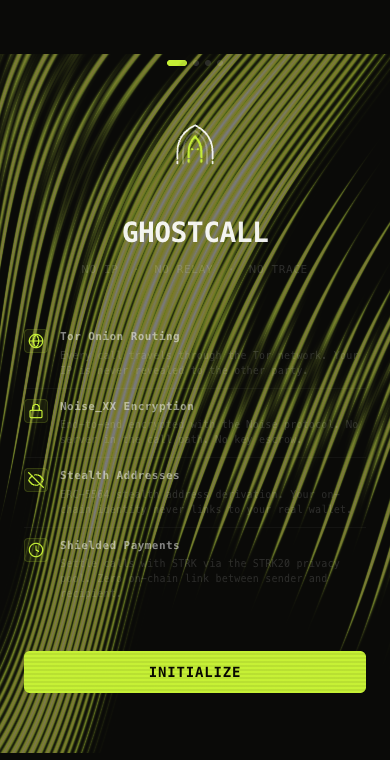
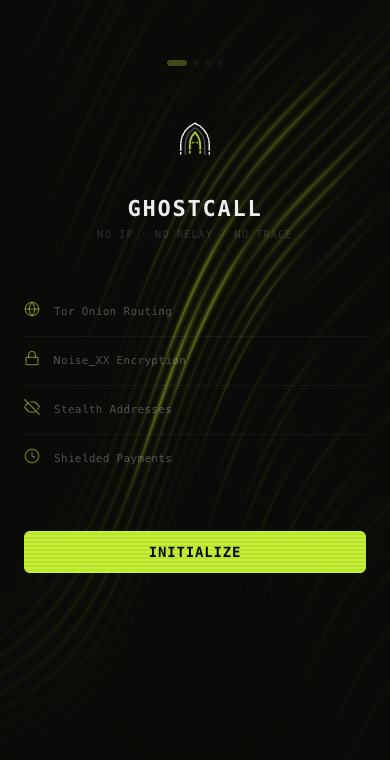
fix: subtle onboarding welcome — dim waves + dark scrim, clean content hierarchy

diff --git a/renderer/app/onboarding/page.tsx b/renderer/app/onboarding/page.tsx
@@ -145,82 +145,73 @@ const FEATURE_ITEMS = [
 // ── Welcome ────────────────────────────────────────────────────────────────
 function WelcomeStep({ onNext }: { onNext: () => void }) {
   return (
-    <div style={{ display: 'flex', flexDirection: 'column', alignItems: 'center', gap: 40, width: '100%', maxWidth: 360, position: 'relative' }}>
-      {/* Iridescence background */}
+    <div style={{ display: 'flex', flexDirection: 'column', alignItems: 'center', width: '100%', maxWidth: 360, position: 'relative' }}>
+      {/* Subtle line waves — full viewport bleed, very low opacity */}
       <div style={{
-        position: 'absolute', inset: '-60px -80px', zIndex: 0,
-        pointerEvents: 'none', opacity: 0.45,
+        position: 'fixed', inset: 0, zIndex: 0,
+        pointerEvents: 'none',
       }}>
         <LineWaves
           color1="#C6F135"
-          color2="#a8d420"
-          color3="#e8ff60"
-          speed={0.3}
-          brightness={0.35}
-          warpIntensity={1.0}
-          innerLineCount={30}
-          outerLineCount={34}
-          rotation={-40}
-          colorCycleSpeed={0.5}
+          color2="#8aaa10"
+          color3="#C6F135"
+          speed={0.2}
+          brightness={0.07}
+          warpIntensity={0.5}
+          innerLineCount={20}
+          outerLineCount={24}
+          rotation={-30}
+          colorCycleSpeed={0.25}
           enableMouseInteraction={false}
         />
       </div>
 
-      <div style={{ position: 'relative', zIndex: 1 }}>
-        <Logo size={64} glowColor="rgba(198,241,53,0.9)" />
+      {/* Dark scrim so content reads cleanly over the waves */}
+      <div style={{
+        position: 'fixed', inset: 0, zIndex: 0, pointerEvents: 'none',
+        background: 'radial-gradient(ellipse at center, rgba(10,10,8,0.55) 0%, rgba(10,10,8,0.82) 100%)',
+      }} />
+
+      {/* Logo */}
+      <div style={{ position: 'relative', zIndex: 1, marginBottom: 32 }}>
+        <Logo size={52} glowColor="rgba(198,241,53,0.7)" />
       </div>
 
-      <div style={{ textAlign: 'center', position: 'relative', zIndex: 1 }}>
+      {/* Wordmark + tagline */}
+      <div style={{ textAlign: 'center', position: 'relative', zIndex: 1, marginBottom: 48 }}>
         <h1 style={{
-          fontFamily: 'var(--font-mono)', fontSize: 28, fontWeight: 700,
-          letterSpacing: '-0.02em', lineHeight: 1.1, marginBottom: 12,
+          fontFamily: 'var(--font-mono)', fontSize: 22, fontWeight: 700,
+          letterSpacing: '0.08em', lineHeight: 1, marginBottom: 10,
           color: 'var(--label-primary)',
         }}>
           GHOSTCALL
         </h1>
         <p style={{
-          fontFamily: 'var(--font-mono)', fontSize: 11,
-          color: 'var(--label-quaternary)', lineHeight: 1.7,
-          letterSpacing: '0.06em', textTransform: 'uppercase',
-          maxWidth: 240, margin: '0 auto',
+          fontFamily: 'var(--font-mono)', fontSize: 10,
+          color: 'var(--label-quaternary)', lineHeight: 1,
+          letterSpacing: '0.12em', textTransform: 'uppercase',
         }}>
-          No IP &nbsp;·&nbsp; No relay &nbsp;·&nbsp; No trace
+          no ip · no relay · no trace
         </p>
       </div>
 
-      {/* Feature list — terminal style */}
-      <div style={{ position: 'relative', zIndex: 1, width: '100%' }}>
+      {/* Feature list */}
+      <div style={{ position: 'relative', zIndex: 1, width: '100%', marginBottom: 48 }}>
         {FEATURE_ITEMS.map((item, i) => (
           <div key={item.id} style={{
-            display: 'flex', alignItems: 'flex-start', gap: 12,
-            padding: '10px 0',
-            borderBottom: i < FEATURE_ITEMS.length - 1 ? '1px solid rgba(255,255,255,0.04)' : 'none',
+            display: 'flex', alignItems: 'center', gap: 14,
+            padding: '12px 0',
+            borderBottom: i < FEATURE_ITEMS.length - 1 ? '1px solid rgba(255,255,255,0.05)' : 'none',
           }}>
-            <div style={{
-              width: 24, height: 24, borderRadius: 4,
-              background: 'rgba(198,241,53,0.08)',
-              border: '1px solid rgba(198,241,53,0.15)',
-              display: 'flex', alignItems: 'center', justifyContent: 'center',
-              flexShrink: 0,
-              color: 'var(--accent)',
-            }}>
+            <div style={{ color: 'rgba(198,241,53,0.5)', flexShrink: 0 }}>
               {item.icon}
             </div>
-            <div>
-              <p style={{
-                fontFamily: 'var(--font-mono)', fontSize: 11, fontWeight: 600,
-                color: 'var(--label-secondary)', letterSpacing: '0.04em',
-                marginBottom: 2,
-              }}>
-                {item.title}
-              </p>
-              <p style={{
-                fontFamily: 'var(--font-mono)', fontSize: 10,
-                color: 'var(--label-quaternary)', lineHeight: 1.5, letterSpacing: '0.02em',
-              }}>
-                {item.description}
-              </p>
-            </div>
+            <span style={{
+              fontFamily: 'var(--font-mono)', fontSize: 11,
+              color: 'var(--label-tertiary)', letterSpacing: '0.03em',
+            }}>
+              {item.title}
+            </span>
           </div>
         ))}
       </div>
